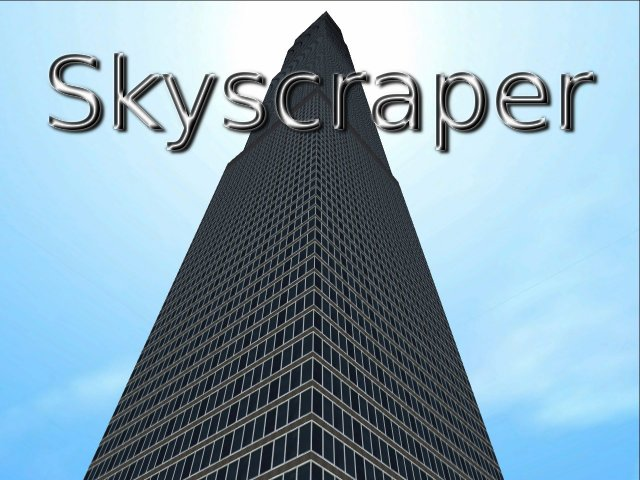
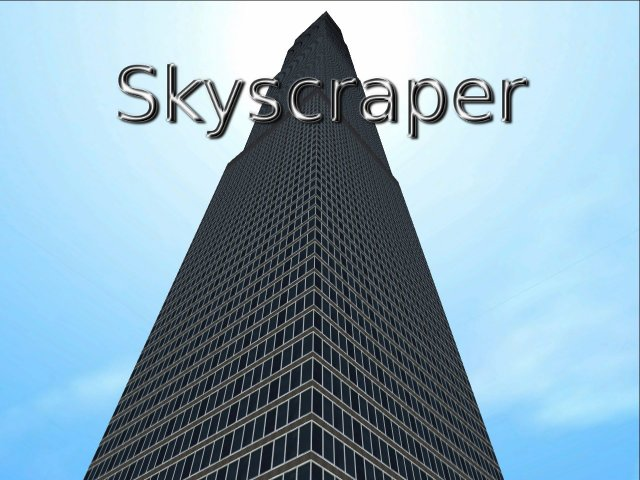
Menu fixes, and fixed menu image

Changed region(s): [[0.0625, 0.0938, 0.9375, 0.3438]]

diff --git a/src/skyscraper.cpp b/src/skyscraper.cpp
@@ -98,6 +98,7 @@ bool Skyscraper::OnInit(void)
 	//DrawBackground();
 	//StartupRunning = true;
 	//StartSound();
+	//return true;
 
 	if (SelectBuilding() == true)
 		Start();
@@ -558,17 +559,16 @@ void Skyscraper::DrawBackground()
 {
 	//draw menu background
 	csRef<iFile> imagefile = vfs->Open("/root/data/menu.png", VFS_FILE_READ);
+	int w2, h2;
 	if (imagefile.IsValid())
 	{
 		csRef<iDataBuffer> filedata = imagefile->GetAllData();
 		image = imageio->Load(filedata, CS_IMGFMT_TRUECOLOR | CS_IMGFMT_ALPHA);
+		w2 = image->GetWidth();
+		h2 = image->GetHeight();
 	}
 	int w = g2d->GetWidth();
 	int h = g2d->GetHeight();
-	int w2 = image->GetWidth();
-	int h2 = image->GetHeight();
-	const int bx = (w - w2) / 2;
-	const int by = h / 2;
 	if (!g3d->BeginDraw(CSDRAW_2DGRAPHICS))
 		return;
 	g2d->Clear(0);
